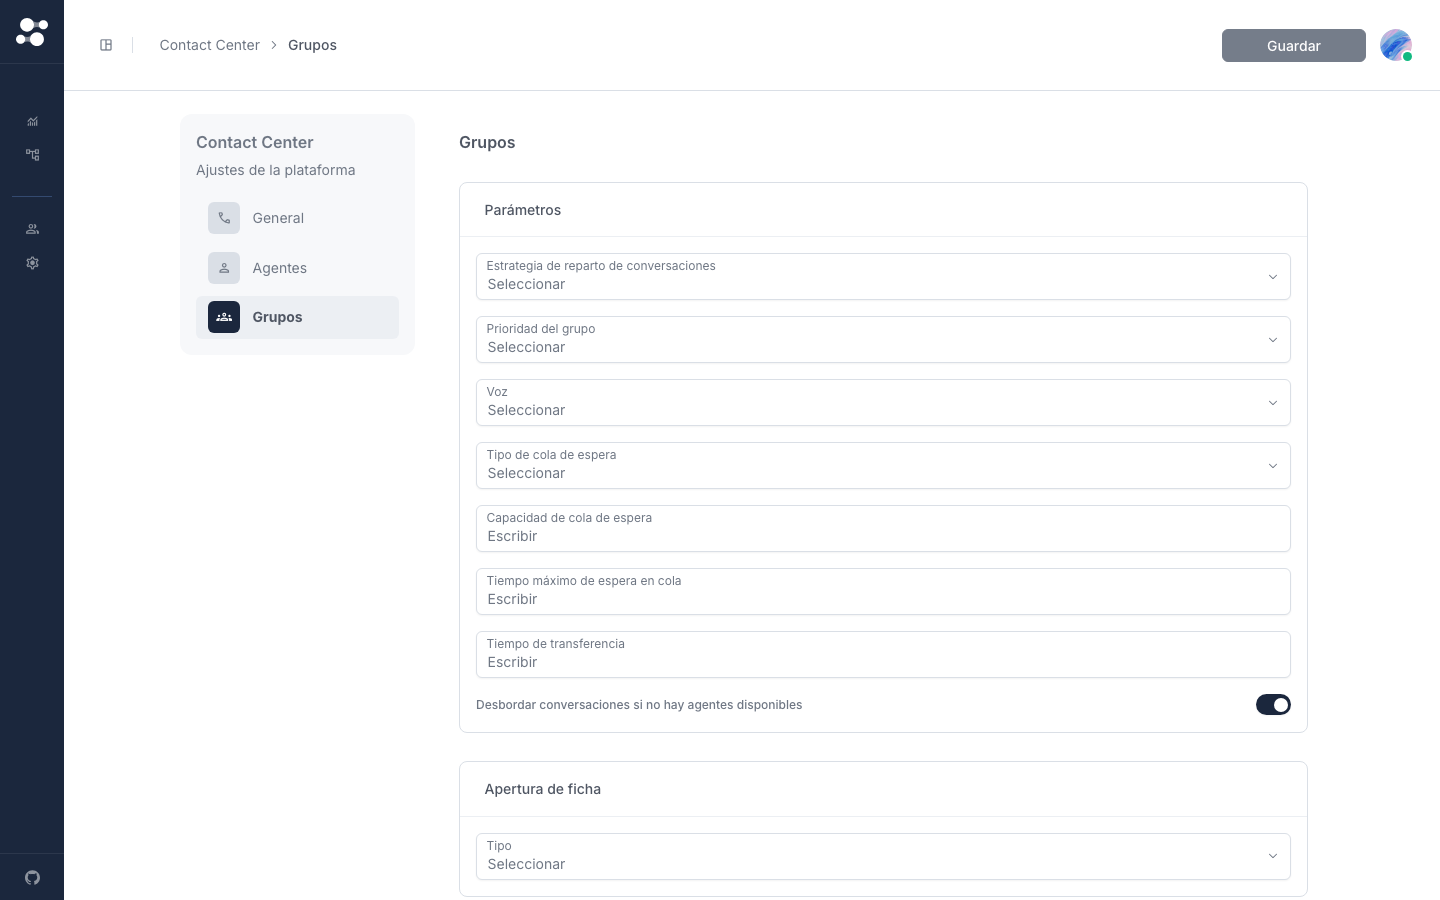
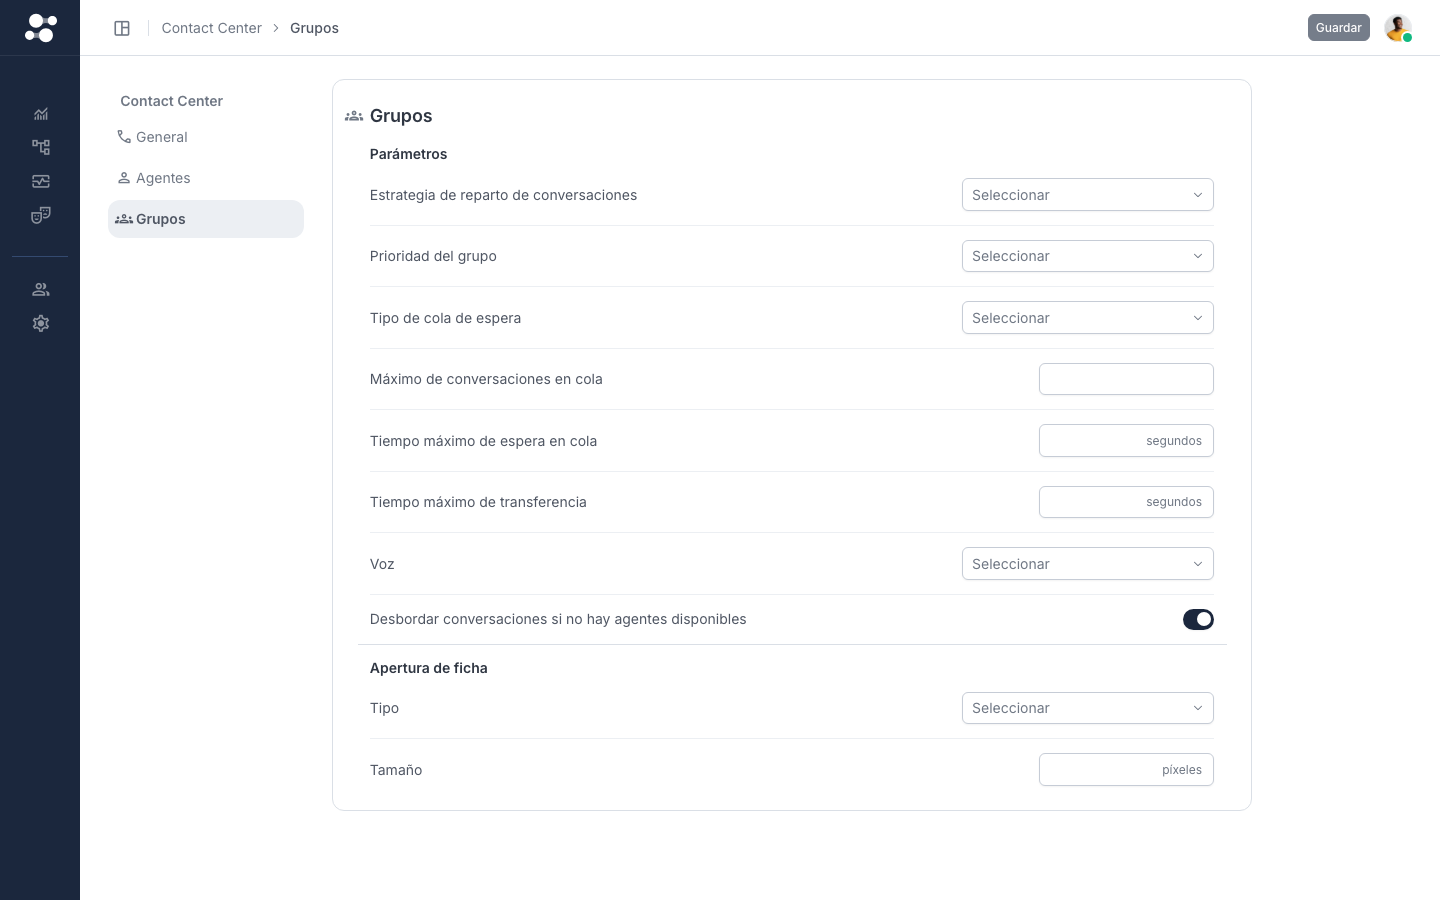
El contenido de página se ancla a la izquierda y el índice lateral deja de colgar
El sidebar está clavado al borde izquierdo y reserva 80px, mientras `.page__inner`
se centraba con su tope. Entre las dos navegaciones quedaba lienzo muerto: medido
con sonda, 108px a 1440 y 348 a 1920 hasta el índice de `--rail`, y las pantallas
hermanas arrancaban en cuatro verticales distintas a 1920 (80 / 200 / 520 / 584).

`.page__inner` pasa a `margin: 0`, `--rail` a `margin-inline: 0` y `.page__form`
a `margin: 0`. Los topes (832 / 960 / 1100 / 1200 / 1600) no se tocan: siguen
limitando el ancho de LECTURA. El contenido de `--rail` sigue midiendo 920, el
`Block` 393:12587 de Figma. El porqué y las referencias medidas están en DD-115.

De paso, la galería de uso vuelve a capturar sus estados de interacción: el
manifiesto buscaba `td.table__td-check`, una clase renombrada hace tiempo, y las
acciones «selección» y «borrar» fallaban en silencio desde entonces, con sus PNG
fosilizados. El selector nuevo pulsa el `p-table-checkbox` del DS y es idempotente,
porque los estados de una pantalla corren sobre la misma página sin recargar.

Las 24 capturas de `projects/sc-docs/public/usage/` están regeneradas: eran del
2026-09-07, anteriores al sidebar de 80px.

diff --git a/projects/supervisor/src/styles/_page.scss b/projects/supervisor/src/styles/_page.scss
@@ -22,7 +22,20 @@
  * de tocar nada de aquí.
  */
 .page__inner {
-  margin: 0 auto;
+  /* ANCLADO a la izquierda, no centrado (2026-09-20). El tope de cada arquetipo
+   * limita el ancho de LECTURA; no sirve para empujar la página al centro. Con
+   * `margin: 0 auto` el shell tenía dos navegaciones con lienzo muerto en medio: a
+   * 1920, medido, 504px entre el sidebar y `--reading`, 440 en `--hub`, 120 en
+   * `--list` y 348 hasta el índice de `--rail`. Cuatro pantallas hermanas
+   * arrancaban en cuatro verticales distintas (80 / 200 / 520 / 584) y el índice
+   * lateral se leía como colgado. Anclado, las cuatro arrancan en 80 y el aire que
+   * sobra se va a la derecha.
+   *
+   * La referencia de la que salió el centrado son los ajustes de GitHub, que PUEDE
+   * centrar porque su navegación es horizontal y no hay rail vertical del que
+   * despegarse. Meridian (el agéntico de PrimeNG) sí centra teniendo rail, pero con
+   * tope 1680: no muerde hasta ~1760, así que en portátil y en 1920 no se le ve. */
+  margin: 0;
 
   /* Editor: formulario con controles. Por defecto, porque es el caso en el que
    * una línea demasiado larga más duele al rellenar. */
@@ -81,8 +94,16 @@
    * de blanco entre el índice y lo que indexa, y la misma app parecía dos. Rafa: «no
    * rima nada con lo que hay en contact center».
    *
-   *   · 1200 de tope y centrado: por encima deja de estirarse y el bloque flota con
-   *     el rail siempre pegado a su contenido (patrón de ajustes GitHub/Stripe).
+   *   · 1200 de tope y ANCLADO A LA IZQUIERDA, no centrado. Medido el 2026-09-20 con
+   *     `margin-inline: auto`: a 1440 quedaban 108px de lienzo vacío entre el borde
+   *     del sidebar y el índice, y a 1920, 348. Dos navegaciones con un hueco muerto
+   *     en medio: el índice no toca nada por su izquierda y se lee como colgado. El
+   *     centrado salió de los ajustes de GitHub, que PUEDE centrar porque no tiene
+   *     rail vertical: su navegación es horizontal y no hay nada de lo que
+   *     despegarse. Nosotros sí lo tenemos. Meridian, el agéntico de PrimeNG, sí
+   *     centra teniendo rail, pero con tope 1680: no muerde hasta ~1760. Anclado, el
+   *     índice se queda a 28px del sidebar en CUALQUIER ancho y el aire que sobra se
+   *     va a la derecha.
    *   · `1-625` arriba (22.75) y `2` a los lados (28), las del `content` de la maqueta.
    *   · `2` (28) entre rail y contenido. Con 1200 de tope el contenido sale a 920,
    *     que es lo que mide el `Block` 393:12587.
@@ -92,7 +113,7 @@
    * de impacto (350 de alto) y no cabe en 196. */
   &--rail {
     max-width: 1200px;
-    margin-inline: auto;
+    margin-inline: 0;
     padding: var(--sc-spacing-1-625) var(--sc-spacing-2);
     display: flex;
     align-items: flex-start;
@@ -152,7 +173,9 @@
 .page__form {
   min-width: 0;
   max-width: 1100px;
-  margin: 0 auto;
+  /* Anclada, como `.page__inner`: a 1920 el `auto` la dejaba a 250px de su propio
+   * rail, otra vez con hueco muerto entre el índice y lo que indexa. */
+  margin: 0;
   padding: var(--sc-spacing-1-75) var(--sc-spacing-2);
   display: flex;
   flex-direction: column;

diff --git a/e2e/usage/screens.manifest.ts b/e2e/usage/screens.manifest.ts
@@ -38,10 +38,22 @@ const MOD = process.platform === 'darwin' ? 'Meta' : 'Control';
 
 /** Marca la 1ª fila de una tabla de listado (dispara la bulk-action-bar). */
 const selectFirstRow = async (page: Page): Promise<void> => {
-  await page
-    .locator('tbody tr td.table__td-check input[type="checkbox"]')
-    .first()
-    .check({ timeout: 4000 });
+  /* La casilla la pinta el DS: la celda es `.sc-datatable__check` y dentro va un
+   * `p-table-checkbox` cuyo `input` tapa la caja de PrimeNG, así que se pulsa el
+   * componente, no el input (igual que `admin-datatable-pilot.spec.ts`). El selector
+   * anterior buscaba `td.table__td-check`, una clase que ya no existe: la acción
+   * fallaba en silencio desde el renombrado y los estados «selección» y «borrar»
+   * llevaban sin capturarse, con sus PNG viejos fosilizados (visto el 2026-09-20).
+   *
+   * IDEMPOTENTE a propósito: los estados de una pantalla corren SOBRE LA MISMA página,
+   * sin recargar (`usage-capture.spec.ts`, bucle de `states`), así que «borrar» vuelve
+   * a llamar aquí con la fila ya marcada. Un clic a secas la desmarcaría y la barra de
+   * acciones desaparecería. El `.check()` de antes sí lo era; el clic no, así que la
+   * condición lo devuelve. */
+  const casilla = page.locator('tbody tr td.sc-datatable__check p-table-checkbox').first();
+  const marcada = await casilla.locator('p-checkbox').getAttribute('data-p-checked');
+  if (marcada === 'true') return;
+  await casilla.click({ timeout: 4000 });
 };
 
 export const USAGE_SCREENS: readonly UsageScreen[] = [
@@ -56,8 +68,14 @@ export const USAGE_SCREENS: readonly UsageScreen[] = [
         name: 'borrar', // → sc-delete-entity-dialog / sc-dialog
         action: async (page) => {
           await selectFirstRow(page);
-          await page
-            .locator('sc-bulk-action-bar button, sc-bulk-action-bar p-button')
+          /* La barra aparece DESPUÉS de que la selección llegue al store, así que se
+           * espera a que esté pintada antes de buscar su botón. Y se busca dentro de
+           * `.bulk-bar` y solo entre `button`: el selector anterior casaba también el
+           * `p-button` que lo envuelve, con el mismo texto. */
+          const barra = page.locator('sc-bulk-action-bar .bulk-bar');
+          await barra.waitFor({ state: 'visible', timeout: 4000 });
+          await barra
+            .locator('button')
             .filter({ hasText: /elimin|borrar|delete/i })
             .first()
             .click({ timeout: 4000 });

diff --git a/docs/DECISIONS.md b/docs/DECISIONS.md
@@ -81,6 +81,46 @@
 
 ---
 
+## DD-115 · 2026-09-20 — El contenido de página se ANCLA a la izquierda: el tope limita la lectura, no empuja al centro
+
+**Contexto** · Llegó la queja de que el índice lateral de las pantallas con rail «colgaba». Medido
+en local con sonda, a 1440 y a 1920, sobre `main`: el sidebar está clavado al borde izquierdo y
+reserva 80px, y `.page__inner` se centraba con `margin: 0 auto`. Entre las dos navegaciones quedaba
+lienzo muerto: **108px a 1440 y 348 a 1920** hasta el índice de `--rail`. Y las pantallas hermanas
+arrancaban en cuatro verticales distintas a 1920: `--rail` en 80, `--list` en 200, `--hub` en 520 y
+`--reading` en 584. La miga de la barra, que `top-bar.component.scss` dice alinear con el título de
+la página, solo casaba por casualidad a 1440.
+
+**Decisión** ·
+
+1. **`.page__inner` va anclado**: `margin: 0 auto` → `margin: 0`. `--rail` pierde su
+   `margin-inline: auto` y `.page__form` su `margin: 0 auto`.
+2. **Los topes NO se tocan** (832 / 960 / 1100 / 1200 / 1600): siguen siendo límite de ancho de
+   LECTURA. Lo que se retira es su uso como empuje al centro.
+3. La regla, en una línea: **se acota lo que se lee; lo que es navegación va pegado.**
+
+**Razón** · Medido después, a 1440 y 1920, las cuatro pantallas arrancan en x=80 y el hueco hasta
+el índice de `--rail` es de 28 (el `padding` del molde) en cualquier ancho. El contenido de `--rail`
+sigue midiendo 920, el `Block` 393:12587 de Figma. `audit:page-anatomy` y las 35 pruebas de molde
+del Supervisor pasan sin tocarlas: miden tope, `padding`, `gap`, rail de 196 y los 920, no el margen.
+
+Las referencias se midieron el mismo día en el navegador. Los ajustes de GitHub sí centran (bloque
+de 1280 a 1440), pero **pueden**: su navegación es horizontal y no hay rail vertical del que
+despegarse. Su vista de código, que sí tiene árbol lateral pegado, no acota el contenido: a 2560 lo
+deja en 2239. Meridian (el agéntico de PrimeNG) centra teniendo rail, pero con tope 1680: no muerde
+hasta ~1760, así que en portátil y en 1920 no se le ve. El centrado de `_page.scss` nació citando
+«patrón de ajustes GitHub/Stripe» y se aplicó a un shell que GitHub no tiene.
+
+**Descartadas** ·
+
+- **Subir el tope de `--rail` a 1680, como Meridian** → tapa el síntoma en las dos pantallas
+  medidas pero lo devuelve por encima de ~1760, y mueve el contenido de 920 a 1400, que es el ancho
+  del `Block` de Figma.
+- **Anclar solo `--rail`**, que es lo que se señaló → a 1920 dejaba las hermanas arrancando en
+  80 / 200 / 520 / 584. Cambiaba un desajuste por otro.
+- **Tocar la miga de la barra** para que case con el título → quedan 53px por el botón de inicio y
+  el divisor que van delante. Es otra decisión; anclar no la empeora.
+
 ## DD-114 · 2026-09-15 — La cabecera del Dashboard se ordena en dos bloques y el modo pared no se queda en negro
 
 **Contexto** · Rafa pidió quitar el fondo gris de la tira de pestañas del Dashboard y ordenar sus botones, y propuso

diff --git a/docs/handoff/supervisor-fichas.md b/docs/handoff/supervisor-fichas.md
@@ -7,6 +7,32 @@
 >
 > Nace el 2026-09-16. El tramo anterior (las tres formas de ficha, 2026-09-15) vive en `design-system.md`.
 
+## ✅ 2026-09-20 · El contenido de página se ancla a la izquierda: el índice lateral deja de colgar (DD-115)
+
+> **Sello: rama `arebury/candlefish`, sobre `origin/main` HEAD `84f37bd5`.** Un solo fichero de código:
+> `projects/supervisor/src/styles/_page.scss`.
+
+**Qué pasó.** Llegó de fuera del equipo que el índice lateral «colgaba». Medido con sonda en local: el sidebar
+está clavado al borde y `.page__inner` se centraba, así que entre las dos navegaciones había lienzo muerto —108px
+a 1440 y 348 a 1920 hasta el índice de `--rail`— y las hermanas arrancaban en cuatro verticales distintas a 1920
+(80 / 200 / 520 / 584).
+
+**Qué cambia.** `.page__inner` pasa a `margin: 0`, `--rail` a `margin-inline: 0` y `.page__form` a `margin: 0`.
+**Los topes no se tocan**: 832 / 960 / 1100 / 1200 / 1600 siguen limitando el ancho de LECTURA. El contenido de
+`--rail` sigue midiendo 920, el `Block` 393:12587. El porqué y las referencias medidas (GitHub, Meridian) están en
+`docs/DECISIONS.md` DD-115.
+
+**Medido** con sonda de navegador a 1440 y 1920, en Configuración del AED, Seguridad, Usuarios y Repositorios: las
+cuatro arrancan en x=80 y el hueco hasta el índice es de 28 (el `padding` del molde) en cualquier ancho. En el
+laboratorio del Sidebar de PrimeNG (`/lab/sidebar`) el sidebar mide 48 y la página arranca en 48: anclado, el
+contenido no depende del ancho del sidebar, así que un cambio de marco no lo mueve.
+
+`audit:page-anatomy` y las 35 pruebas de molde del Supervisor pasan **sin tocarlas**: miden tope, `padding`, `gap`,
+rail de 196 y los 920, no el margen.
+
+**Trampa del tramo:** las capturas de `projects/sc-docs/public/usage/` son del 2026-09-07 y aún enseñan el sidebar
+de 64px y el contenido centrado. No sirven para comprobar esto; regéneralas con `npm run usage:capture`.
+
 ## ✅ 2026-09-16 · La ficha de grupo sigue a Voice, Configuración del AED › Grupos habla como ella y los iconos pasan a Rounded opsz 24
 
 > **Sello: rama `comparar/fichas` (no se funde), HEAD `6e183821`.** Vivo: https://comparar-fichas.sc-supervisor.pages.dev ·
